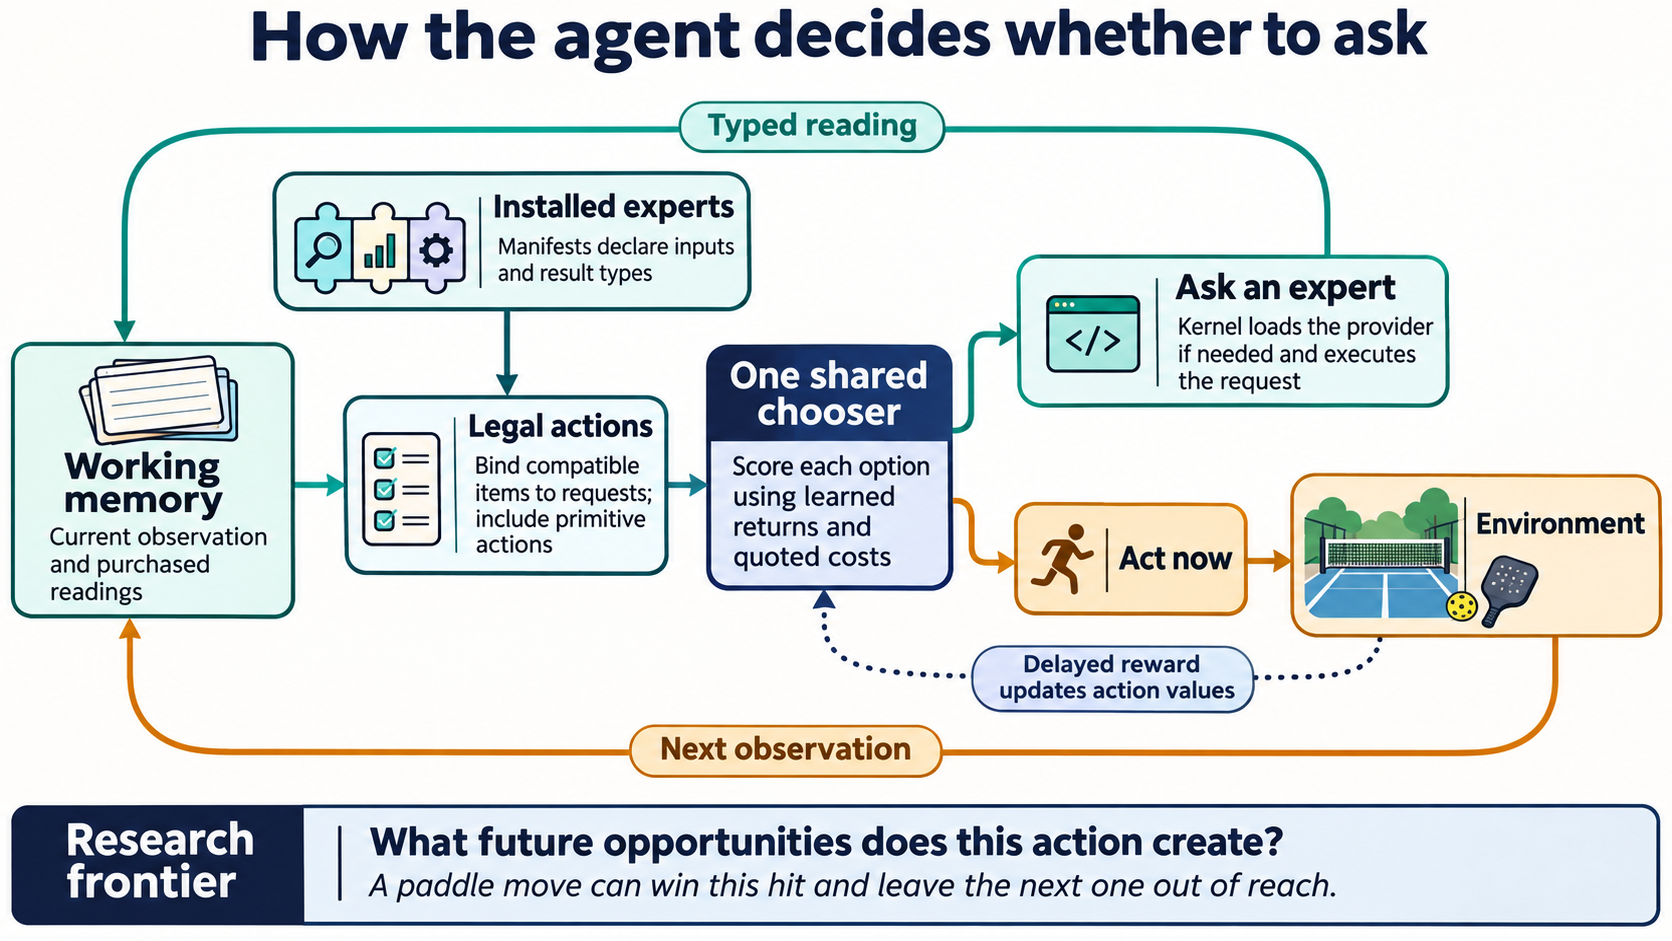
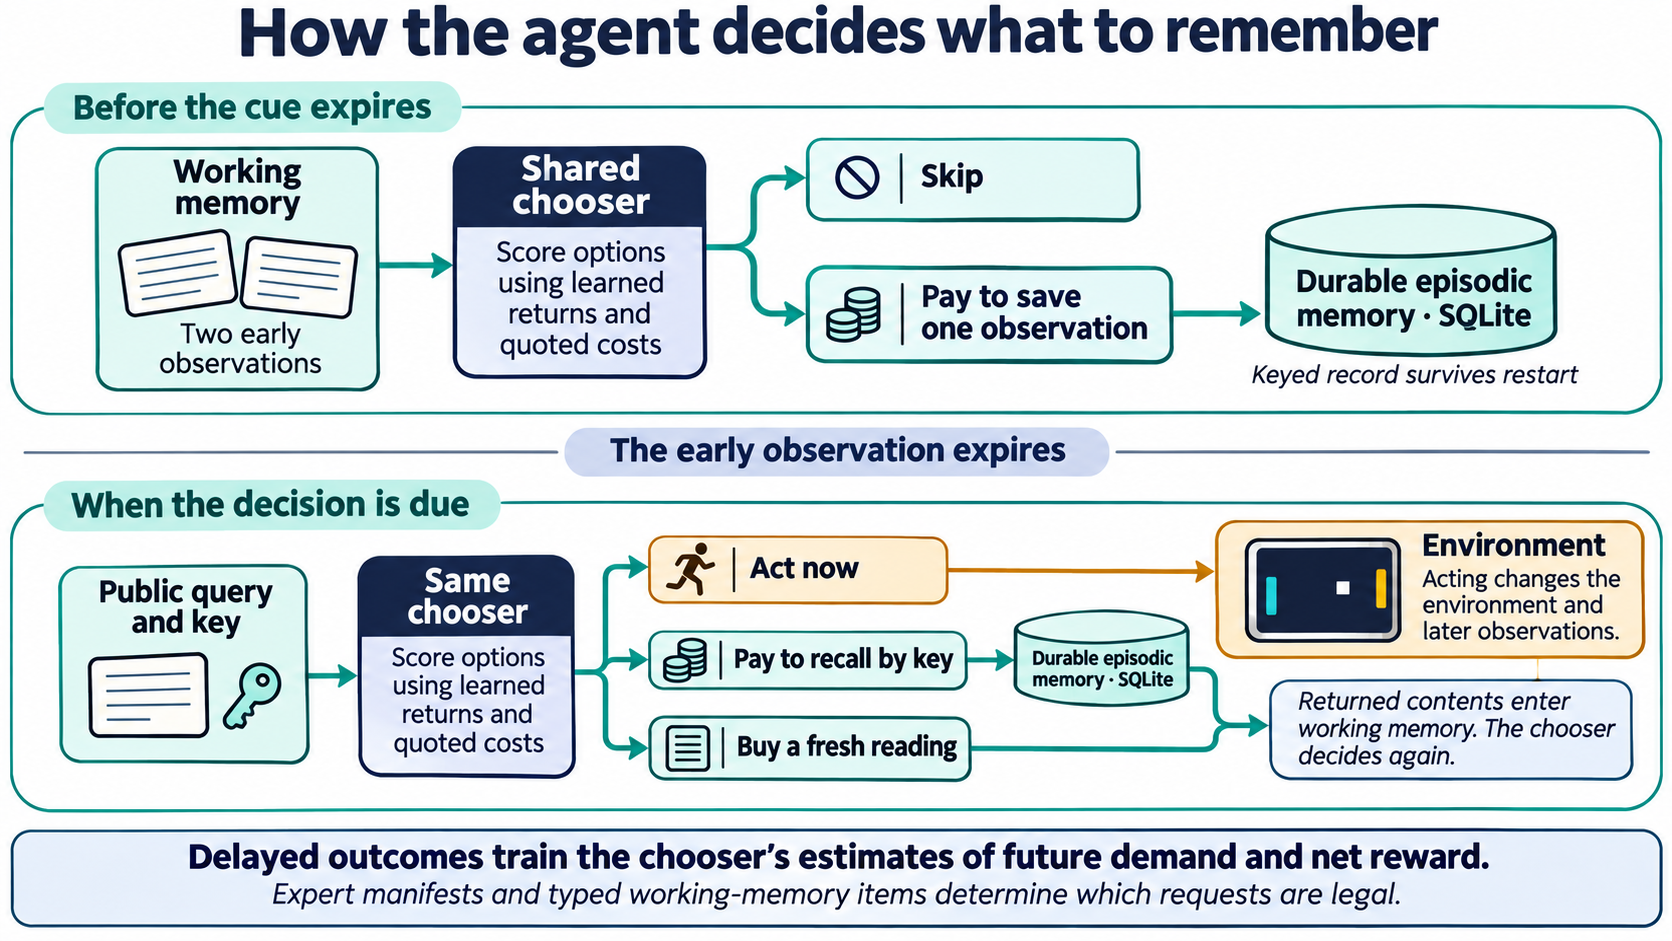
Show exercised durable memory paths in the inquiry architecture

diff --git a/ARCHITECTURE.md b/ARCHITECTURE.md
@@ -30,12 +30,16 @@ follow the existing stable planner. The external structural
 package supplies the learned request-value concept and durable provider evidence.
 
 The [selective inquiry diagram](docs/selective-inquiry-architecture.png) shows
-the observation and action loop. In the external chooser, delayed rewards update
-action-value estimates that accumulate across episodes and survive checkpoint
-restore. Working memory supplies the readings available at the current decision.
-The core also provides a [durable episodic store](src/nca/memory/sqlite.py).
-Retrieving a past episode from that store is outside the action menu evaluated
-in the Pong and record-resolution deployments.
+the two decisions in the deferred-cue deployments. The structural expert
+package exposes save and exact-key lookup through separate manifests, backed
+by a host-provisioned [durable episodic store](src/nca/memory/sqlite.py).
+Saving admits a typed observation before working memory expires. At a later
+query the chooser can act, recall the admitted value, or consult a fresh expert.
+A lookup returns a typed result, including an explicit miss. A returned reading
+can change the next decision. The store holds records under a byte budget.
+The chooser's checkpoint separately retains estimates of subsequent demand
+and realized returns. The two SQLite symbols in the diagram refer to the same
+store before and after the delay.
 
 ## Map
 
